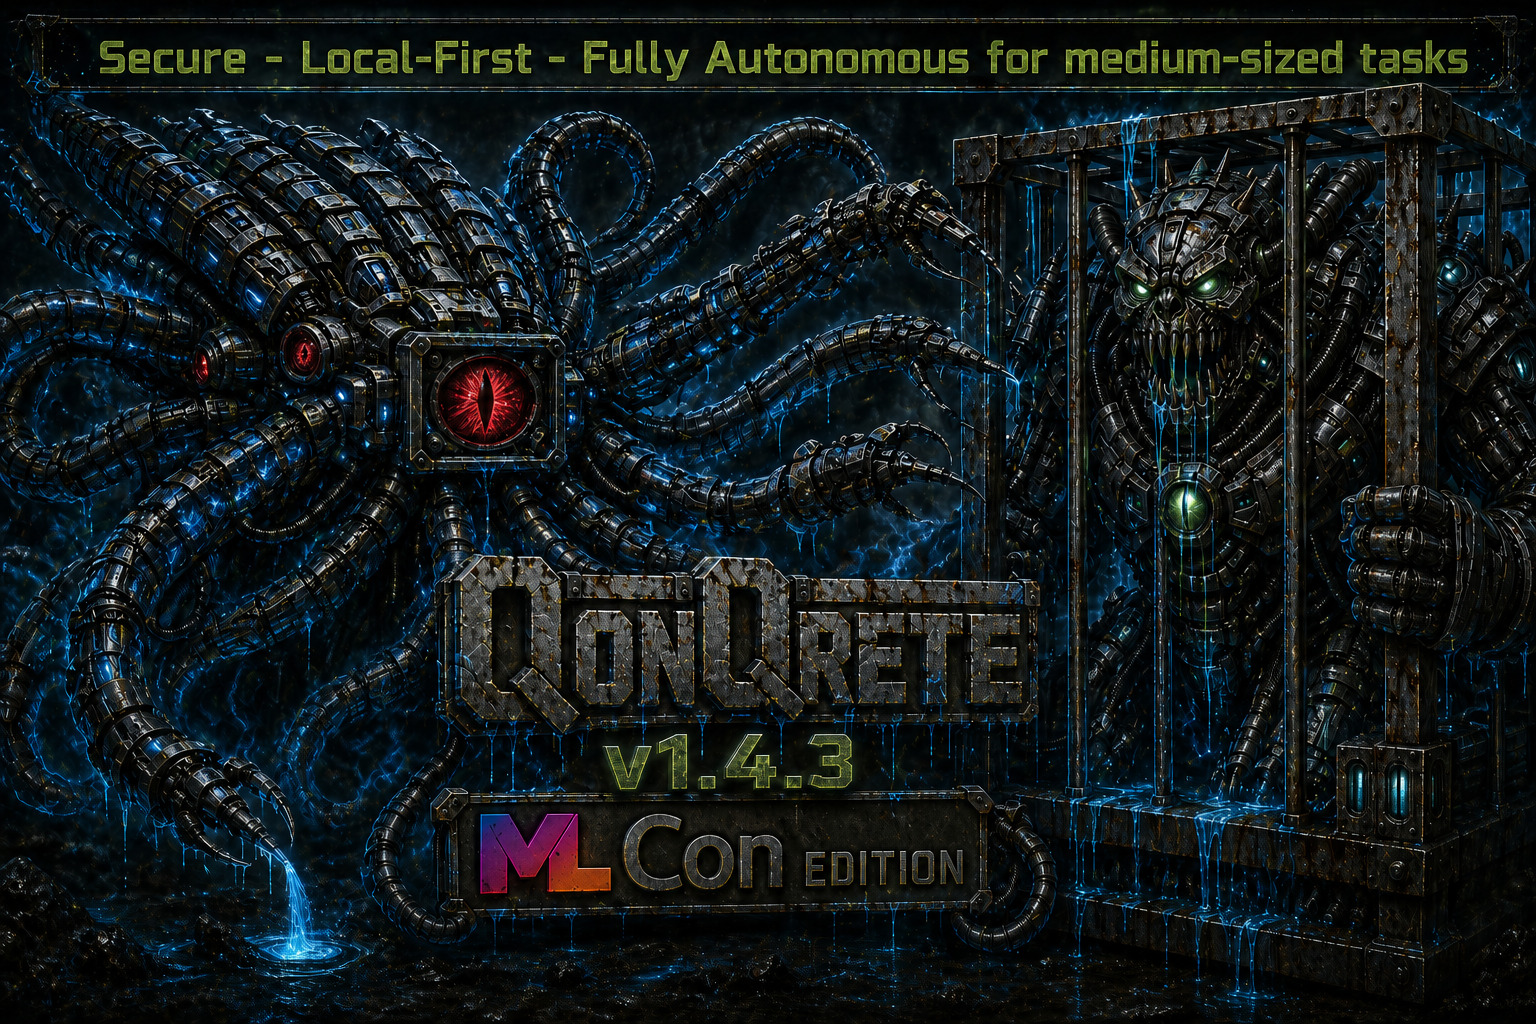
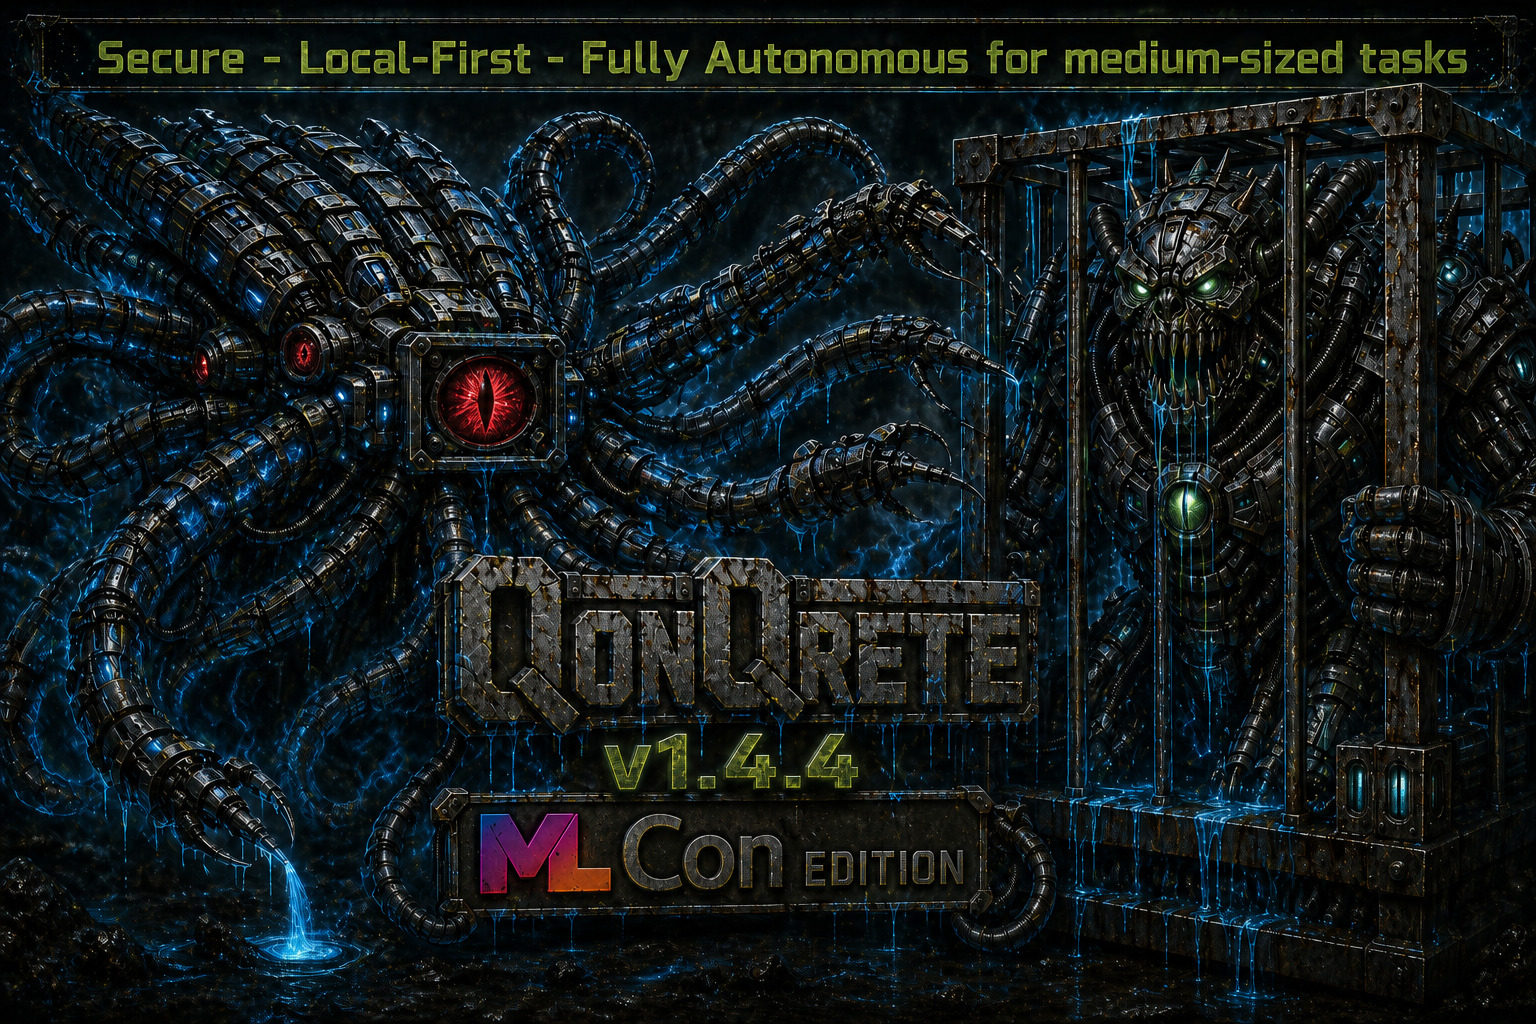
v1.4.4 fixes

diff --git a/README.md b/README.md
@@ -5,7 +5,7 @@
 [![Build VS Code Extension](https://github.com/illdynamics/qonqrete/actions/workflows/vscode-extension.yml/badge.svg)](https://github.com/illdynamics/qonqrete/actions/workflows/vscode-extension.yml)
 [![Build IntelliJ Plugin](https://github.com/illdynamics/qonqrete/actions/workflows/intellij-plugin.yml/badge.svg)](https://github.com/illdynamics/qonqrete/actions/workflows/intellij-plugin.yml)
 
-![QonQrete](qrane/qonqrete.jpg)
+![QonQrete](qonqrete.jpg)
 
 QonQrete is a **local-first, file-based AI software construction system** that runs a structured multi-agent build loop inside a hardened container. It plans work into briqs, generates code in a Qage, reviews the result, and iterates with either **user-gated cheQpoints** or **fully autonomous global-iteration loops**.
 
